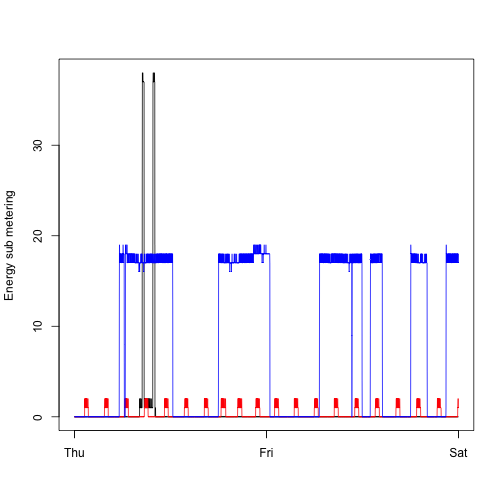
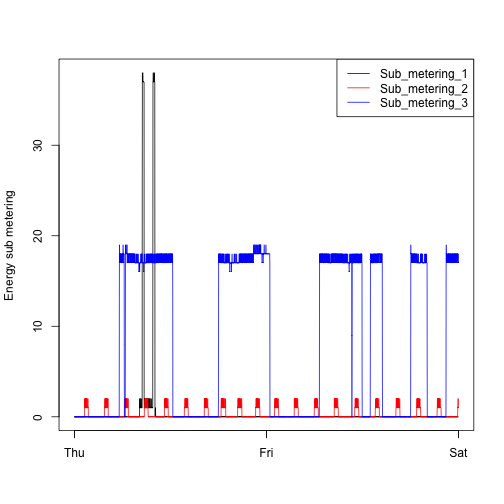
Revised some typo in readme.md

Changed region(s): [[0.6548, 0.119, 0.9524, 0.2381]]

diff --git a/plot/readme.md b/plot/readme.md
@@ -81,7 +81,7 @@ dev.off()
 
 ### __Fig3__
 
-__create a df contains time and metering data only__
+__Create a df contains time and metering data only__
 
 ```r
 df <- data.frame(Time_as_date, consumption[, c(7, 8, 9)])
@@ -89,6 +89,7 @@ df <- data.frame(Time_as_date, consumption[, c(7, 8, 9)])
 
 
 __Create a plot of Energy sub metering to date on screen device__
+__And create legend on the topright__
 
 ```r
 
@@ -96,21 +97,12 @@ plot(df$Time_as_date, df$Sub_metering_1, type = "l", col = "black", xlab = "",
     ylab = "Energy sub metering")
 lines(df$Time_as_date, df$Sub_metering_2, type = "l", col = "red")
 lines(df$Time_as_date, df$Sub_metering_3, type = "l", col = "blue")
-```
 
-![plot of chunk unnamed-chunk-11](figure/unnamed-chunk-11.png) 
-
-
-__Create legend on the topright__
-
-```r
 legend("topright", lty = 1, col = c("black", "red", "blue"), legend = c("Sub_metering_1", 
     "Sub_metering_2", "Sub_metering_3"))
 ```
 
-```
-## Error: plot.new has not been called yet
-```
+![plot of chunk unnamed-chunk-11](figure/unnamed-chunk-11.png) 
 
 
 __Copy the plot to a PNG file with a width of 480 pixels and a height of 480 pixels__
@@ -161,7 +153,7 @@ plot(df$Time_as_date, df$Global_reactive_power, type = "l", xlab = "datetime",
     ylab = "Global_reactive_power")
 ```
 
-![plot of chunk unnamed-chunk-16](figure/unnamed-chunk-16.png) 
+![plot of chunk unnamed-chunk-15](figure/unnamed-chunk-15.png) 
 
 
 __Copy the plot to a PNG file with a width of 480 pixels and a height of 480 pixels__
